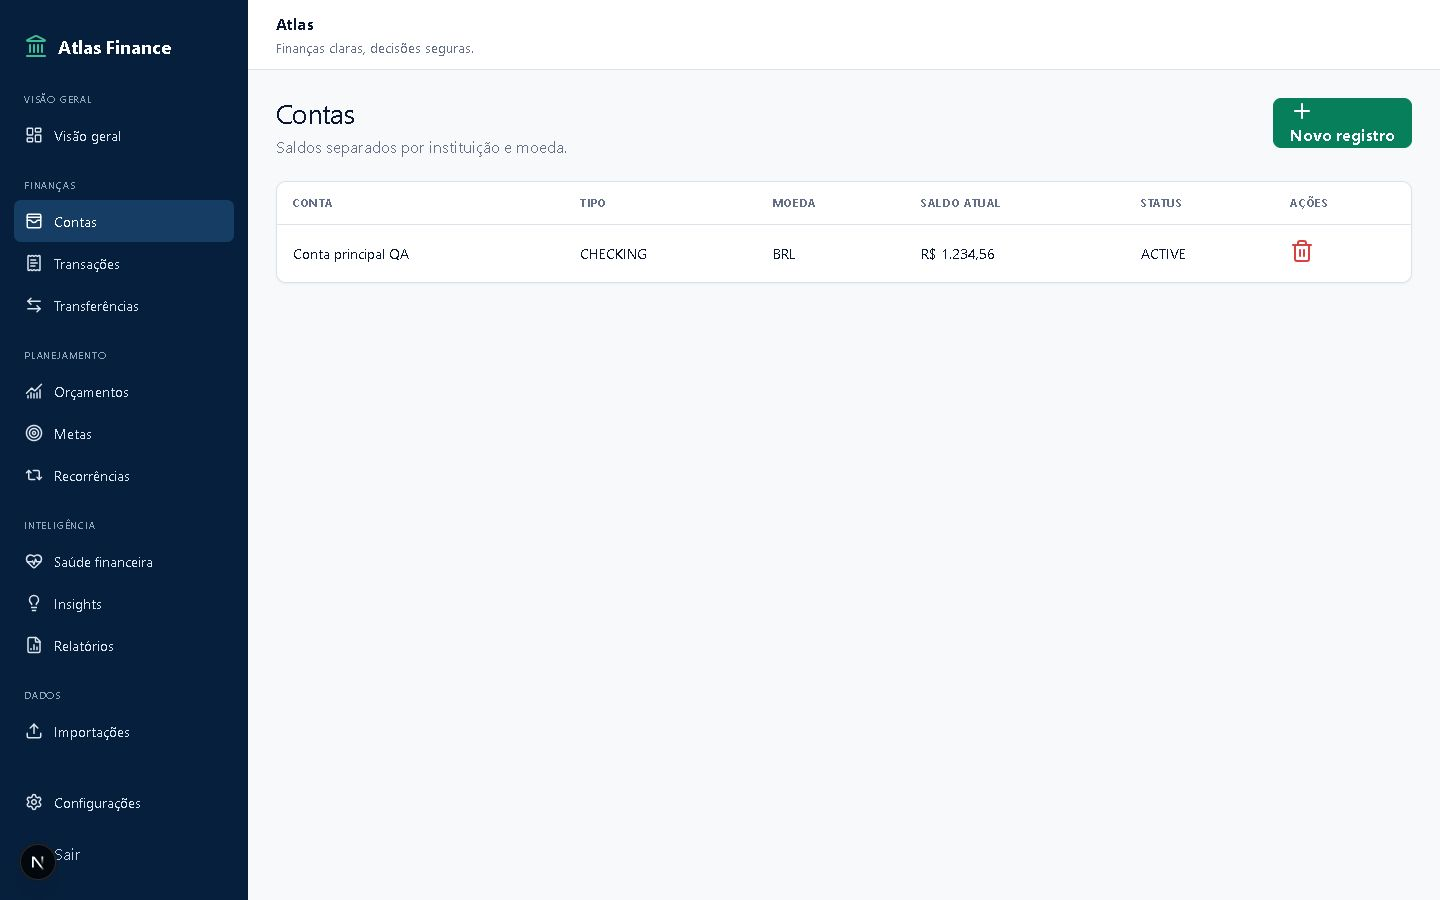
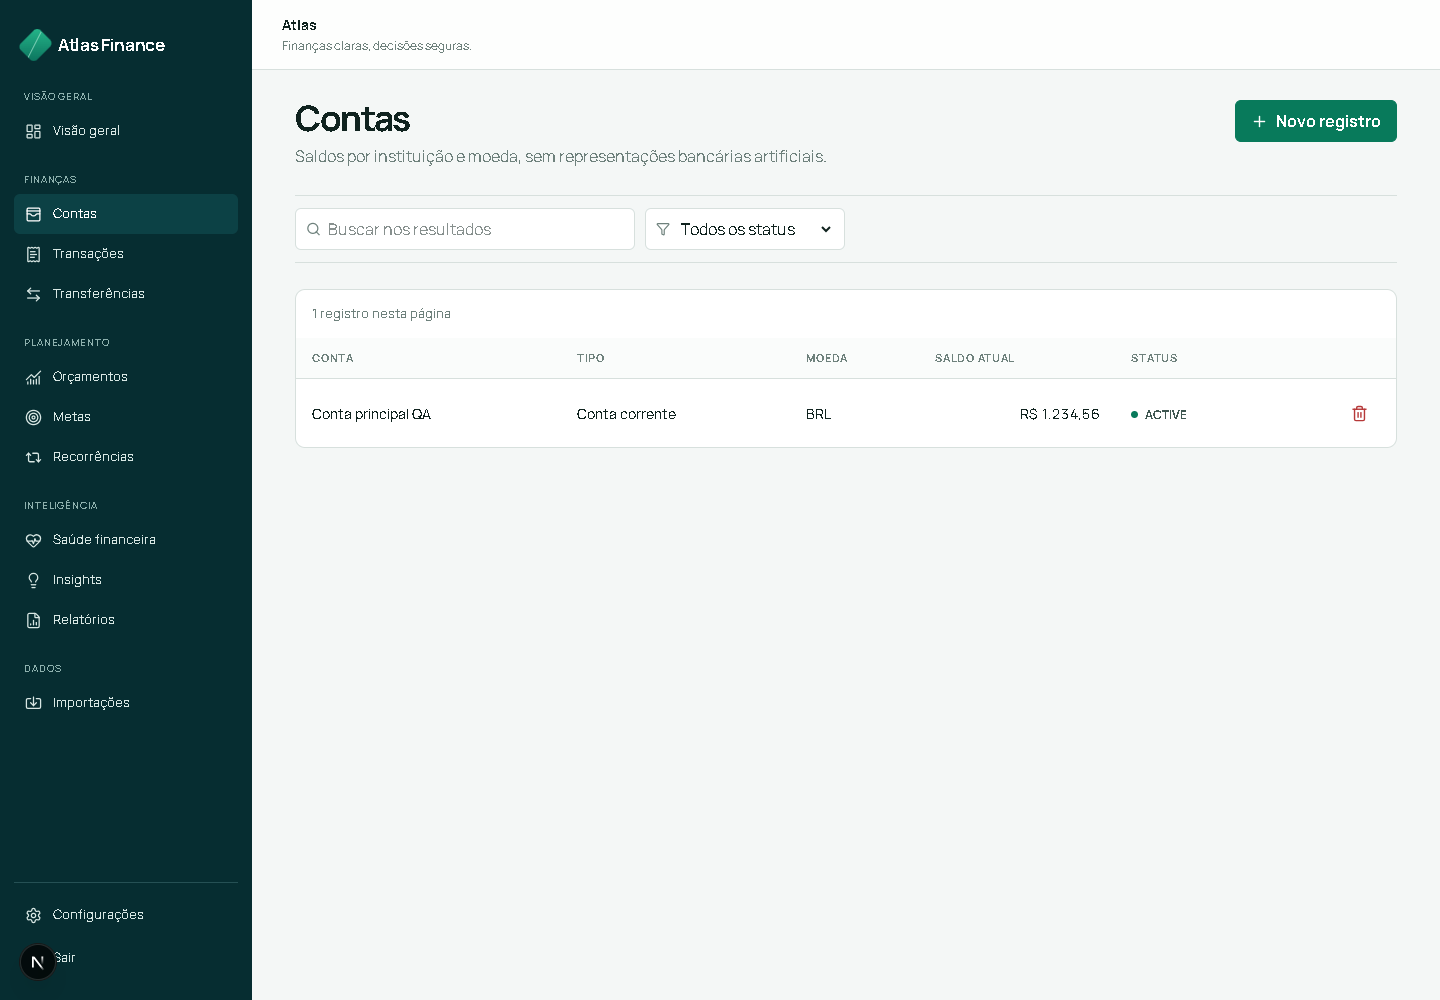
Atualiza screenshots e corrige botão de configurações (#4)
* feat(web): refine contextual finance UX

* docs: redesign project readme

* fix(web): style settings link and refresh screenshots

diff --git a/apps/web/src/components/app-shell.tsx b/apps/web/src/components/app-shell.tsx
@@ -99,7 +99,7 @@ export function AppShell({ children }: { children: React.ReactNode }) {
       .atlas-mark span{width:1px;height:34px;background:#a4e4cf;opacity:.7;transform:rotate(-18deg)}
       .drawer-close{display:none;background:none;border:0;color:#fff;margin-left:auto;cursor:pointer}.drawer-close svg{width:20px}
       .shell nav section{margin-top:21px}.shell nav section>span{display:block;padding:0 10px 7px;color:#8eb1ae;font-size:10px;text-transform:uppercase;letter-spacing:.09em}
-      .shell nav a,.nav-footer button{display:flex;align-items:center;gap:11px;min-height:40px;padding:0 11px;color:#d8e7e4;text-decoration:none;border-radius:var(--radius-sm);font-size:13px;border:0;width:100%;background:transparent;cursor:pointer}
+      .shell nav a,.nav-footer a,.nav-footer button{display:flex;align-items:center;gap:11px;min-height:40px;padding:0 11px;color:#d8e7e4;text-decoration:none;border-radius:var(--radius-sm);font-size:13px;border:0;width:100%;background:transparent;cursor:pointer}
       .shell nav a svg,.nav-footer svg{width:17px;height:17px;stroke-width:1.8}.shell nav a:hover,.shell nav a.active,.nav-footer a.active{background:var(--nav-hover);color:#fff}
       .nav-footer{margin-top:auto;border-top:1px solid #255054;padding-top:12px}.logout{margin-top:3px}
       .shell main{min-width:0}.app-header{height:70px;padding:0 30px;background:rgb(255 255 255/.82);backdrop-filter:blur(10px);border-bottom:1px solid var(--border);display:flex;align-items:center;position:sticky;top:0;z-index:20}
